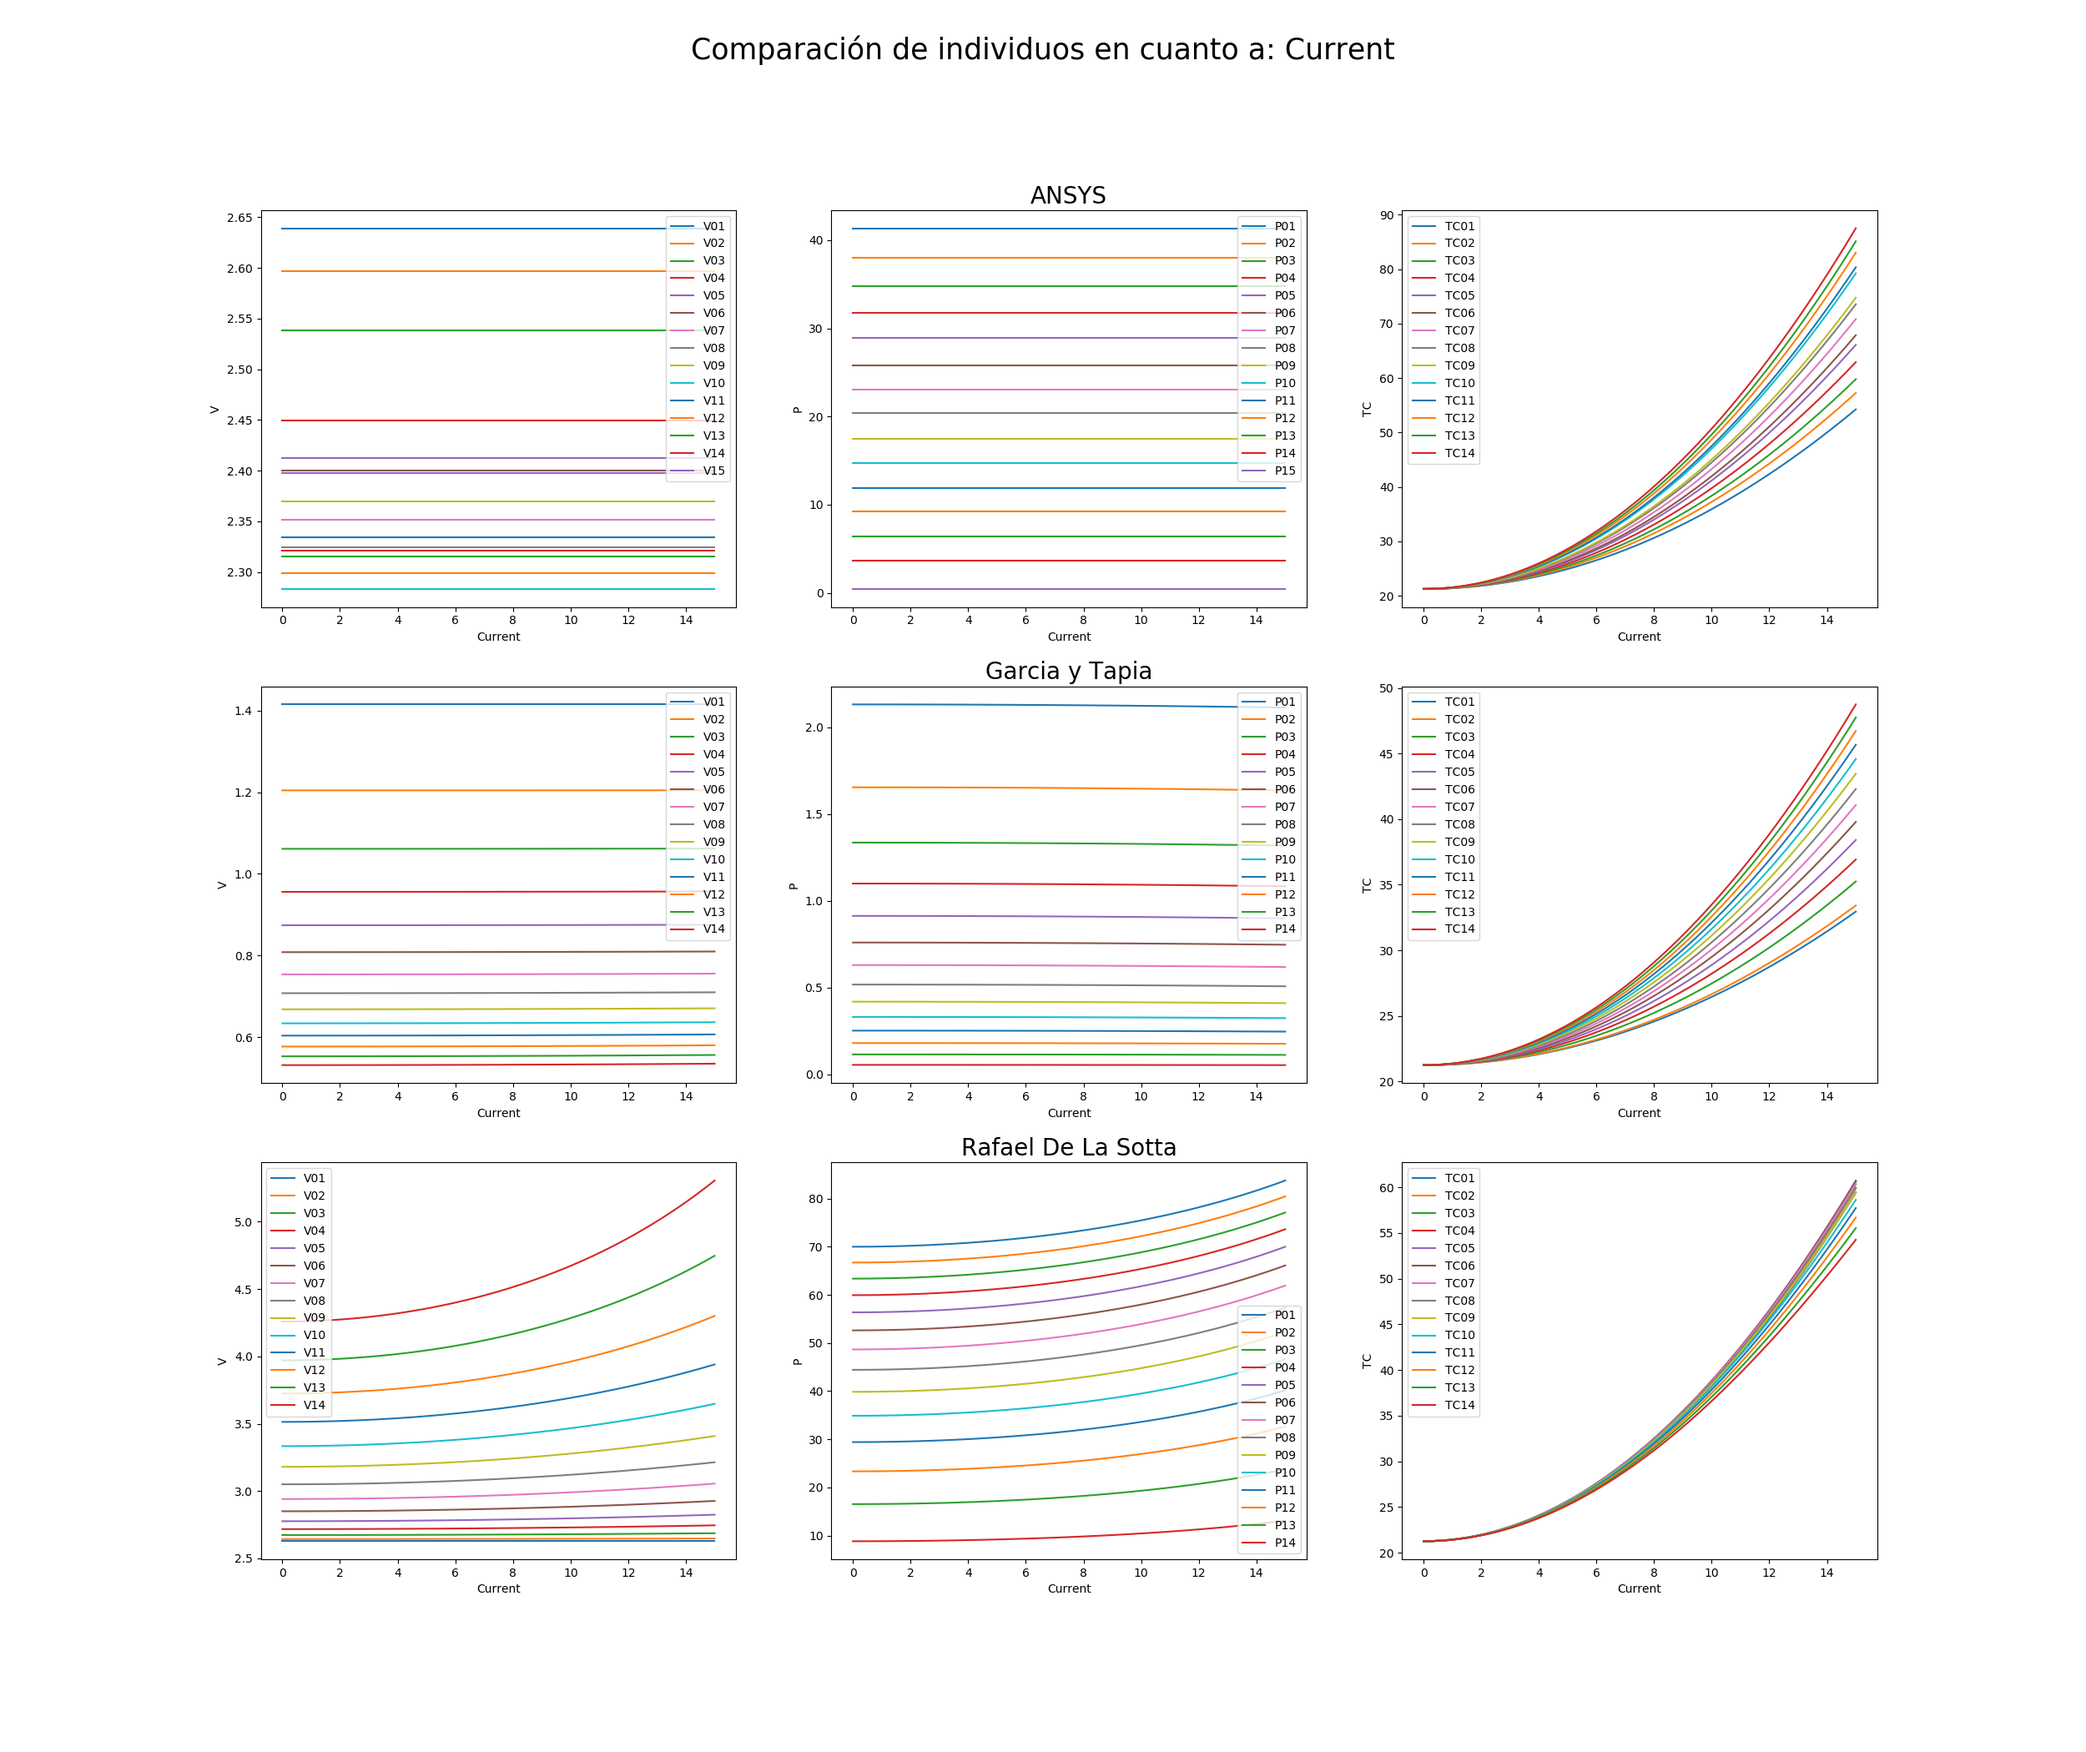
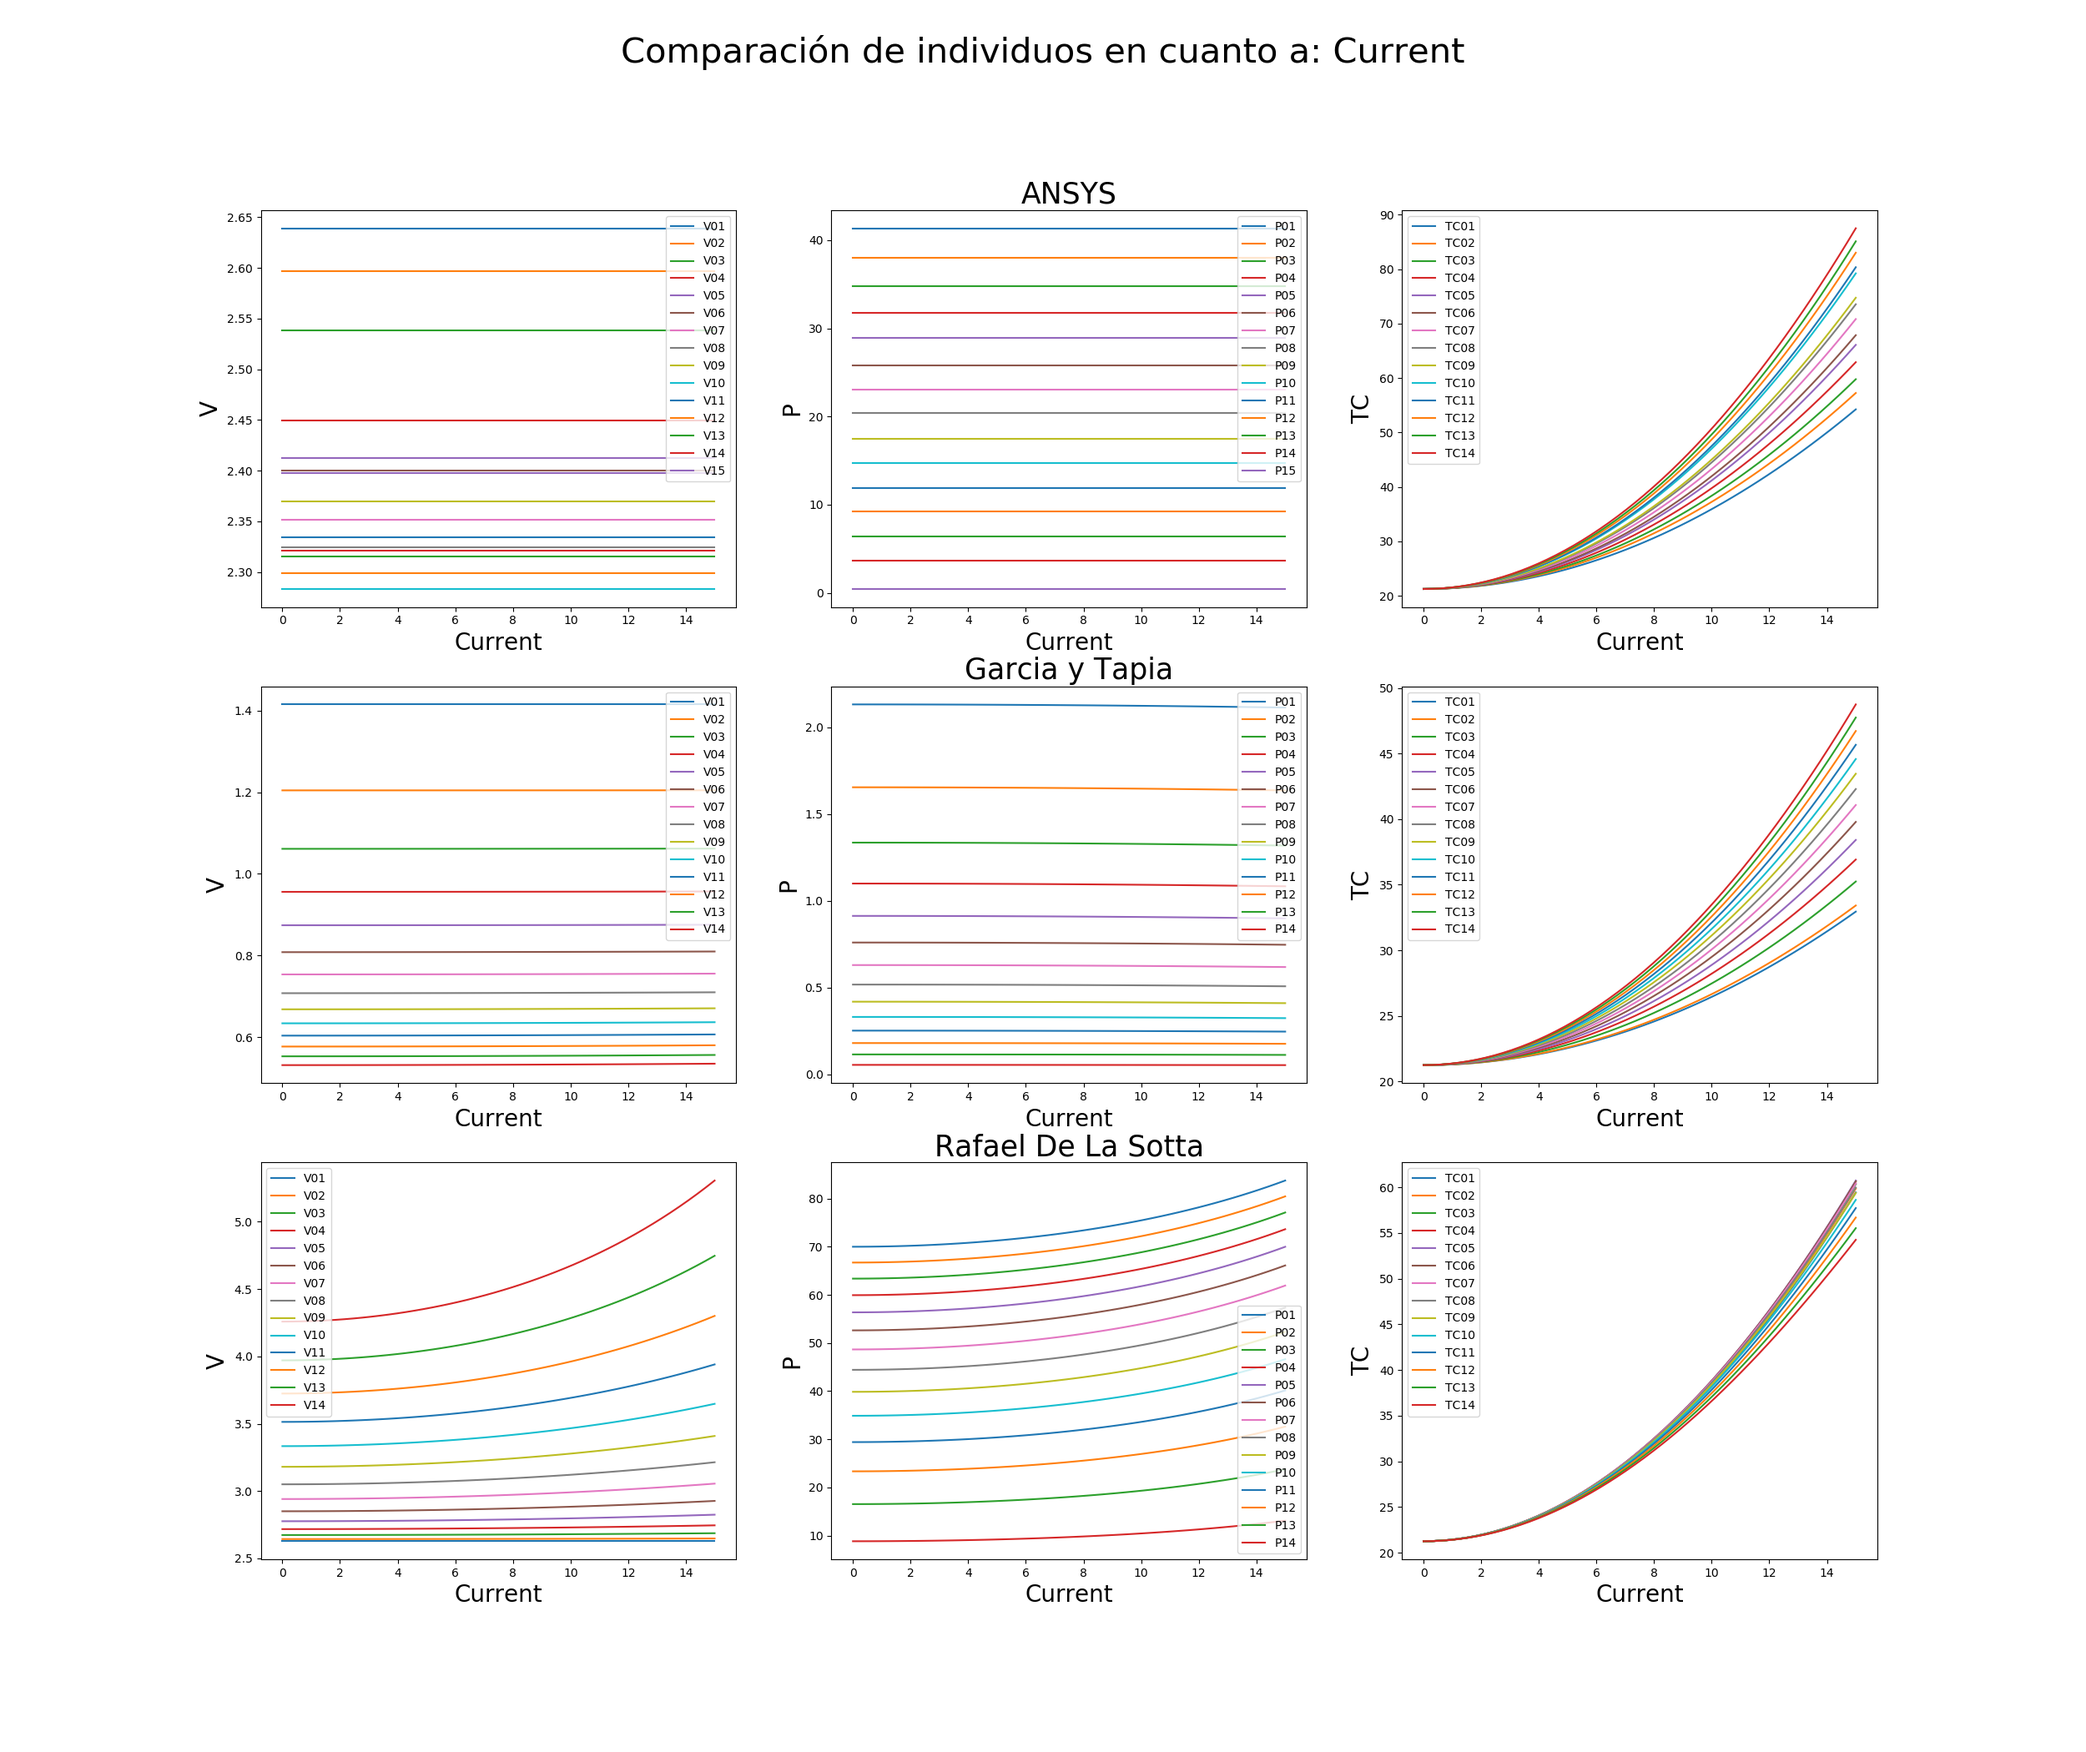
front size

diff --git a/src/fitness/funciones_fitness.py b/src/fitness/funciones_fitness.py
@@ -241,7 +241,7 @@ def get_data_simple(df):
 def compare(input, dataset_array, individuals_array, path_to_folder):
   n_individuals = len(individuals_array)
   fig, axis = plt.subplots(n_individuals, 3, figsize=(25,n_individuals*7))
-  fig.suptitle('Comparación de individuos en cuanto a: ' + input ,fontsize=25)
+  fig.suptitle('Comparación de individuos en cuanto a: ' + input ,fontsize=30)
   output_array = ['V', 'P', 'TC']
   for i in range(len(dataset_array)):
     for j in range(len(output_array)):
@@ -250,9 +250,9 @@ def compare(input, dataset_array, individuals_array, path_to_folder):
       columns_to_plot.remove(input)
       df_i_vs_o.plot(x=input, y=columns_to_plot, ax=axis[i,j])
       if j==1:
-        axis[i,j].set_title(individuals_array[i],fontsize=20)
-      axis[i,j].set_xlabel(input)
-      axis[i,j].set_ylabel(output_array[j])
+        axis[i,j].set_title(individuals_array[i],fontsize=25)
+      axis[i,j].set_xlabel(input, fontsize=20)
+      axis[i,j].set_ylabel(output_array[j],fontsize=20)
   plt.savefig(path_to_folder + input + '.png')
 
 #######################################################
@@ -262,27 +262,22 @@ def save_graph_data_outputs(df, num_celdas, path_to_save):
   nrow=3
   ncol=1
   fig, axes = plt.subplots(nrow, ncol,figsize=(15,nrow*8))
-  fig.suptitle('Comparación de individuos para ' + str(num_celdas) + ' celdas',fontsize=25)
+  fig.suptitle('Comparación de individuos para ' + str(num_celdas) + ' celdas',fontsize=30)
 
   df_vf.plot(rot=0, ax=axes[0])
-  axes[0].set_title('Error en cálculo de velocidad de fluido para por columna',fontsize=15)
-  axes[0].set_xlabel('Columnas')
-  axes[0].set_ylabel('Error')
-  axes[0].set_yscale('log')
-
+  axes[0].set_title('Error en cálculo de velocidad de fluido para por columna',fontsize=25)
+  axes[0].set_xlabel('Columnas',fontsize=20)
+  axes[0].set_ylabel('Error',fontsize=20)
 
   df_pf.plot(rot=0, ax=axes[1])
-  axes[1].set_title('Error en cálculo de presión de fluido para por columna',fontsize=15)
-  axes[1].set_xlabel('Columnas')
-  axes[1].set_ylabel('Error')
-  axes[1].set_yscale('log')
-
+  axes[1].set_title('Error en cálculo de presión de fluido para por columna',fontsize=25)
+  axes[1].set_xlabel('Columnas',fontsize=20)
 
   df_tc.plot(rot=0, ax=axes[2])
-  axes[2].set_title('Error en cálculo de temperatura de celda para por columna',fontsize=15)
-  axes[2].set_xlabel('Columnas')
-  axes[2].set_ylabel('Error')
-  axes[2].set_yscale('log')
+  axes[2].set_title('Error en cálculo de temperatura de celda para por columna',fontsize=25)
+  axes[2].set_xlabel('Columnas',fontsize=20)
+  axes[2].set_ylabel('Error',fontsize=20)
+
   plt.savefig(path_to_save + 'individuals_comparation_' + str(num_celdas) + '_cells.png')
 
 def get_arrays(n_gen, index, mainPath):
